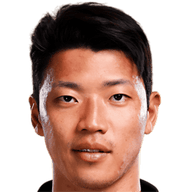
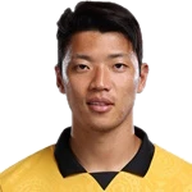
기존 16명 헤드샷을 신규 선수 비율(얼굴+어깨)로 통일
신규 9명의 프레이밍을 기준으로 기존 선수 전원을 재생성:
- 축구 13명: AF 공식 사진(얼굴+어깨 구도) 컷아웃 → 풀프레임 192
- 야구 3명: MLB 공식 헤드샷(w1000) 컷아웃 → 머리 기준 정사각 크롭
  (김하성은 배경 회색 톤이 달라 임계 완화로 별도 처리)
- 전신 webp + CSS 확대로 처리하던 백승호·배준호·엄지성·설영우도
  동일 규격 png로 교체 — PHOTO_ZOOM 보정과 조규성 objectPosition
  특례 제거, webp 4개 삭제

diff --git a/index.html b/index.html
@@ -1022,15 +1022,9 @@ function TeamBadge({ code, size=36, logo }) {
 
 function PlayerPhoto({ player, style={}, tint='var(--bg)' }) {
   const num = player.number;
-  const imageMap = { '손흥민': 'heungmin.png', '이강인': 'kangin.png', '김민재': 'minjae.png', '조규성': 'guesung.png', '황희찬': 'heechan.png', '황인범': 'inbeom.png', '김하성': 'haseong.png', '이정후': 'junghoo.png', '김혜성': 'hyeseong.png', '오현규': 'hyungyu.png', '양현준': 'hyunjun.png', '백승호': 'seungho.webp', '배준호': 'junho.webp', '엄지성': 'jisung.webp', '설영우': 'youngwoo.webp', '이한범': 'hanbeom.png', '이재성': 'jaesung.png', '홍현석': 'hyunseok.png', '정우영': 'wooyeong.png', '카스트로프': 'castrop.png', '박승수': 'seungsoo.png', '김지수': 'jisoo.png', '양민혁': 'minhyeok.png', '이태석': 'taeseok.png', '송성문': 'songsm.png' };
-  // For full-body source images, zoom into the face area
-  const PHOTO_ZOOM = {
-    '백승호': { scale: 2.75, originX: '45%', originY: '16%' },
-    '배준호': { scale: 2.2, originX: '50%', originY: '6%' },
-    '엄지성': { scale: 1.8, originX: '50%', originY: '8%' },
-    '설영우': { scale: 1.9, originX: '50%', originY: '15%' },
-  };
-  const zoom = PHOTO_ZOOM[player.name];
+  const imageMap = { '손흥민': 'heungmin.png', '이강인': 'kangin.png', '김민재': 'minjae.png', '조규성': 'guesung.png', '황희찬': 'heechan.png', '황인범': 'inbeom.png', '김하성': 'haseong.png', '이정후': 'junghoo.png', '김혜성': 'hyeseong.png', '오현규': 'hyungyu.png', '양현준': 'hyunjun.png', '백승호': 'seungho.png', '배준호': 'junho.png', '엄지성': 'jisung.png', '설영우': 'youngwoo.png', '이한범': 'hanbeom.png', '이재성': 'jaesung.png', '홍현석': 'hyunseok.png', '정우영': 'wooyeong.png', '카스트로프': 'castrop.png', '박승수': 'seungsoo.png', '김지수': 'jisoo.png', '양민혁': 'minhyeok.png', '이태석': 'taeseok.png', '송성문': 'songsm.png' };
+  // 전원 동일 규격 헤드샷(얼굴+어깨)이라 별도 확대 보정이 필요 없다.
+  const zoom = null;
   const imagePath = imageMap[player.name] ? `image/${imageMap[player.name]}` : null;
 
   return (
@@ -1038,7 +1032,7 @@ function PlayerPhoto({ player, style={}, tint='var(--bg)' }) {
       {imagePath ? (
         <img src={imagePath} alt={player.name} style={{
           width:'100%', height:'100%', objectFit:'cover',
-          objectPosition: player.name === '조규성' ? '40% 50%' : '50% 50%',
+          objectPosition: '50% 50%',
           display:'block', filter:'brightness(1.1) contrast(1.05)',
           transform: zoom ? `scale(${zoom.scale})` : undefined,
           transformOrigin: zoom ? `${zoom.originX} ${zoom.originY}` : undefined,
@@ -4860,10 +4854,10 @@ const NEWS_PLAYER_IMG = {
   '이재성': 'image/jaesung.png', '홍현석': 'image/hyunseok.png', '정우영': 'image/wooyeong.png',
   '카스트로프': 'image/castrop.png', '박승수': 'image/seungsoo.png', '김지수': 'image/jisoo.png',
   '양민혁': 'image/minhyeok.png', '이태석': 'image/taeseok.png', '송성문': 'image/songsm.png',
-  '백승호': 'image/seungho.webp',
-  '배준호': 'image/junho.webp',
-  '엄지성': 'image/jisung.webp',
-  '설영우': 'image/youngwoo.webp',
+  '백승호': 'image/seungho.png',
+  '배준호': 'image/junho.png',
+  '엄지성': 'image/jisung.png',
+  '설영우': 'image/youngwoo.png',
 };
 
 function detectPlayerName(text) {
